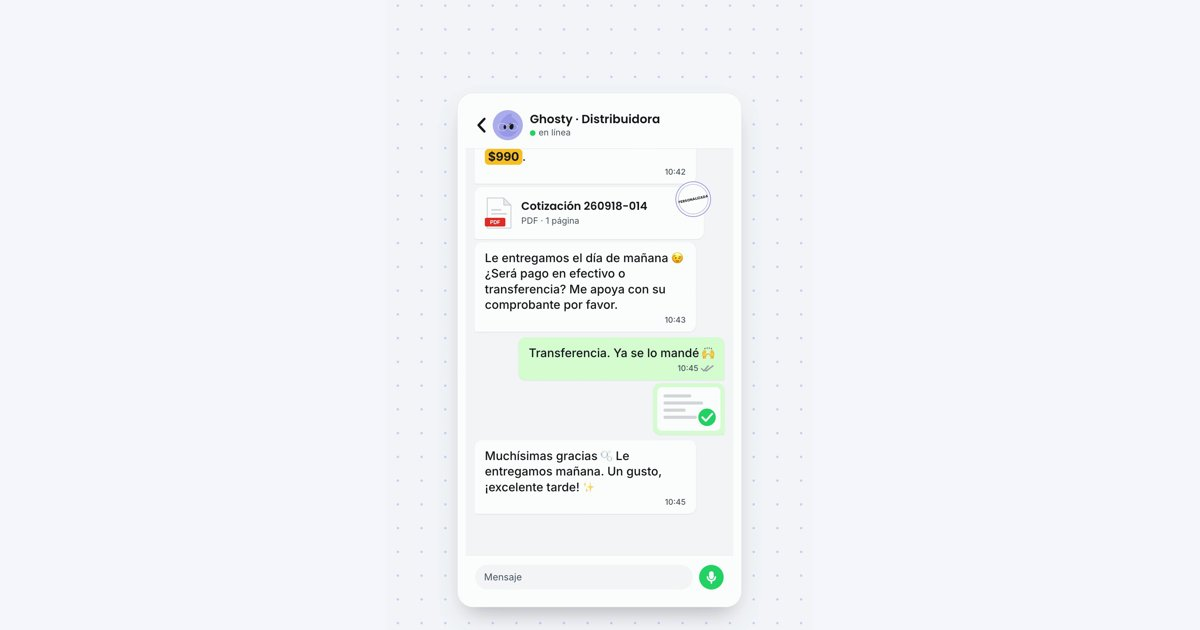
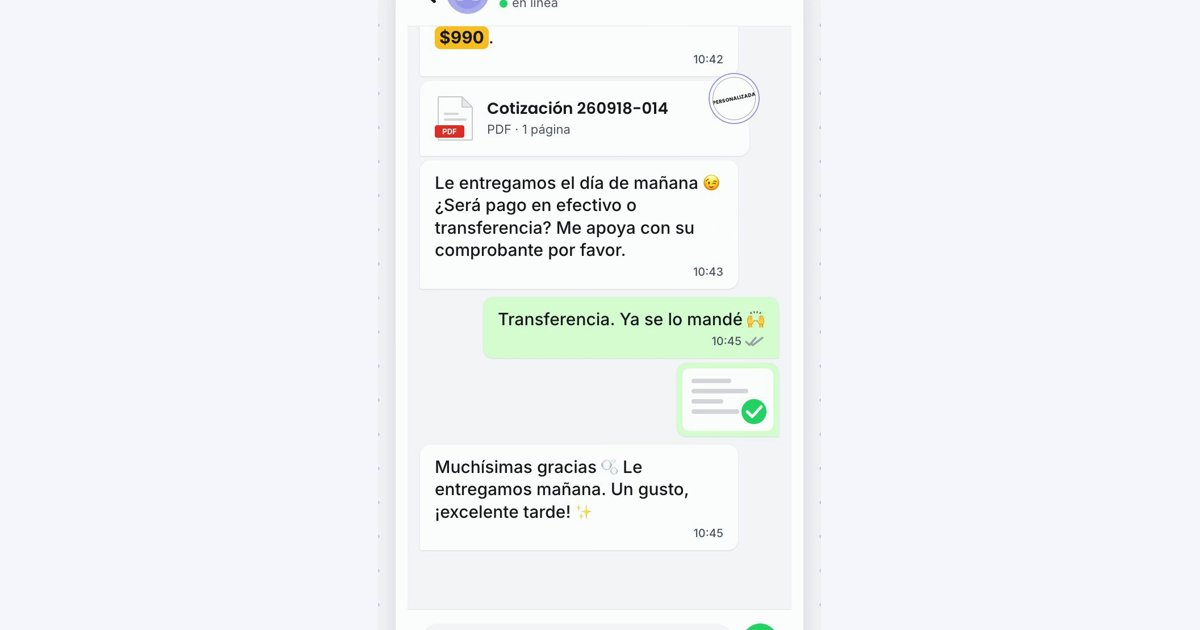
Blog: lista sin miniatura a una columna; portada con el chat más grande

diff --git a/posts/index.html b/posts/index.html
@@ -99,6 +99,7 @@ footer a{color:var(--muted);text-decoration:none;margin-left:18px}
 .post .yt{aspect-ratio:16/9;width:100%;border:0;border-radius:14px;margin:24px 0}
 .list{max-width:760px;margin:0 auto;padding:56px 20px}
 .list article{border-top:1px solid var(--line);padding:26px 0;display:grid;grid-template-columns:180px 1fr;gap:20px;align-items:start}
+.list article.no-thumb{grid-template-columns:1fr}
 .list .thumb{width:180px;aspect-ratio:1200/630;object-fit:cover;border-radius:10px;border:1px solid var(--line)}
 @media (max-width:640px){.list article{grid-template-columns:1fr}.list .thumb{width:100%}}
 .list h2{font-size:1.4rem;margin-bottom:6px}.list h2 a{text-decoration:none}.list h2 a:hover{color:var(--acc)}
@@ -112,13 +113,13 @@ footer a{color:var(--muted);text-decoration:none;margin-left:18px}
   <div class="navr"><button class="theme-toggle" id="themeToggle" aria-label="Cambiar tema"><svg class="sun" viewBox="0 0 24 24" fill="none" stroke="currentColor" stroke-width="2" stroke-linecap="round"><circle cx="12" cy="12" r="4"/><path d="M12 2v2M12 20v2M4.9 4.9l1.4 1.4M17.7 17.7l1.4 1.4M2 12h2M20 12h2M4.9 19.1l1.4-1.4M17.7 6.3l1.4-1.4"/></svg><svg class="moon" viewBox="0 0 24 24" fill="none" stroke="currentColor" stroke-width="2" stroke-linecap="round"><path d="M21 12.8A9 9 0 1 1 11.2 3a7 7 0 0 0 9.8 9.8z"/></svg></button>
   <a class="btn ghost" href="https://wa.me/527712412825?text=Vengo%20de%20hectorbliss.com" target="_blank" rel="noopener">WhatsApp</a></div>
 </div></nav>
-<main class="list"><span class="eyebrow">Blog</span><h1 style="font-size:2.4rem;margin-bottom:8px">Lo que he aprendido construyendo con IA</h1><p class="lead">Seis piezas que siguen valiendo. Lo demás está en <a href="https://blog.hectorbliss.com" style="color:var(--acc)">blog.hectorbliss.com</a>.</p><article><a href="/posts/un-ano-construyendo-agentes-que-trabajan-solos/"><img class="thumb" src="/blog-img/agentes/portada.jpg" alt="" loading="lazy"></a><div><h2><a href="/posts/un-ano-construyendo-agentes-que-trabajan-solos/">Un año construyendo agentes que trabajan solos</a></h2><div class="meta">18 de septiembre de 2026</div><p>Recuento, por si estás decidiendo si meter IA en tu operación. El caso que más me enseñó no es un demo Es Sofi, la vendedora de una distribuidora de químic…</p></div></article>
-<article><div><h2><a href="/posts/TikTok_Libera_Tus_Datos_Pero_Solo_Si_Vives_en_Europa/">TikTok Libera Tus Datos... Pero Solo Si Vives en Europa</a></h2><div class="meta">7 de septiembre de 2025</div><p>Lo que le pasa a un usuario de TikTok le pasa a cualquier negocio con su CRM, su tienda en línea o su sistema de facturación: los datos son tuyos sólo si p…</p></div></article>
-<article><div><h2><a href="/posts/El_Fascinante_Ecosistema_de_LimeSurvey_y_Sistemas_Open_Sourc/">El Fascinante Ecosistema de LimeSurvey y Sistemas Open Source Auto-Instalables con API</a></h2><div class="meta">3 de septiembre de 2025</div><p>Si tu negocio depende de encuestas, analytics o automatizaciones, la pregunta no es qué herramienta está de moda sino cuál no te amarra: que puedas instala…</p></div></article>
-<article><div><h2><a href="/posts/Frameworks_de_IA_para_TypeScript_Mas_Alla_de_Python/">Frameworks de IA para TypeScript: Más Allá de Python</a></h2><div class="meta">23 de agosto de 2025</div><p>Si vienes del mundo JavaScript/TypeScript, trabajar con AutoGen o LangChain puede sentirse como nadar contracorriente. Ambos están profundamente arraigados…</p></div></article>
-<article><div><h2><a href="/posts/AutoGen_vs_LangChain_Guia_Comparativa_para_Desarrolladores/">AutoGen vs LangChain: Guía Comparativa para Desarrolladores</a></h2><div class="meta">23 de agosto de 2025</div><p>El desarrollo con IA ha evolucionado rápidamente, y dos frameworks destacan en la construcción de aplicaciones inteligentes: AutoGen de Microsoft y LangCha…</p></div></article>
-<article><div><h2><a href="/posts/Arquitecturas_de_IA_con_Agentes_Patrones_y_Documentacion_Ofi/">Arquitecturas de IA con Agentes: Patrones y Documentación Oficial</a></h2><div class="meta">23 de agosto de 2025</div><p>Documentación Oficial Principal AWS Prescriptive Guidance Documento oficial: &quot;Agentic AI patterns and workflows on AWS&quot; Julio 2025 URL: docs.aws.amazon.com…</p></div></article>
-<article><div><h2><a href="/posts/adios-a-los-frameworks-web/">Adiós a los frameworks web</a></h2><div class="meta">1 de agosto de 2025</div><p>Por qué es hora de decir adiós a los frameworks tradicionales en la era de los LLMs La evolución del desarrollo web Durante más de dos décadas, los framewo…</p></div></article></main>
+<main class="list"><span class="eyebrow">Blog</span><h1 style="font-size:2.4rem;margin-bottom:8px">Lo que he aprendido construyendo con IA</h1><p class="lead">Siete piezas que siguen valiendo. Lo demás está en <a href="https://blog.hectorbliss.com" style="color:var(--acc)">blog.hectorbliss.com</a>.</p><article class=""><a href="/posts/un-ano-construyendo-agentes-que-trabajan-solos/"><img class="thumb" src="/blog-img/agentes/portada.jpg" alt="" loading="lazy"></a><div><h2><a href="/posts/un-ano-construyendo-agentes-que-trabajan-solos/">Un año construyendo agentes que trabajan solos</a></h2><div class="meta">18 de septiembre de 2026</div><p>Recuento, por si estás decidiendo si meter IA en tu operación. El caso que más me enseñó no es un demo Es Sofi, la vendedora de una distribuidora de químic…</p></div></article>
+<article class="no-thumb"><div><h2><a href="/posts/TikTok_Libera_Tus_Datos_Pero_Solo_Si_Vives_en_Europa/">TikTok Libera Tus Datos... Pero Solo Si Vives en Europa</a></h2><div class="meta">7 de septiembre de 2025</div><p>Lo que le pasa a un usuario de TikTok le pasa a cualquier negocio con su CRM, su tienda en línea o su sistema de facturación: los datos son tuyos sólo si p…</p></div></article>
+<article class="no-thumb"><div><h2><a href="/posts/El_Fascinante_Ecosistema_de_LimeSurvey_y_Sistemas_Open_Sourc/">El Fascinante Ecosistema de LimeSurvey y Sistemas Open Source Auto-Instalables con API</a></h2><div class="meta">3 de septiembre de 2025</div><p>Si tu negocio depende de encuestas, analytics o automatizaciones, la pregunta no es qué herramienta está de moda sino cuál no te amarra: que puedas instala…</p></div></article>
+<article class="no-thumb"><div><h2><a href="/posts/Frameworks_de_IA_para_TypeScript_Mas_Alla_de_Python/">Frameworks de IA para TypeScript: Más Allá de Python</a></h2><div class="meta">23 de agosto de 2025</div><p>Si vienes del mundo JavaScript/TypeScript, trabajar con AutoGen o LangChain puede sentirse como nadar contracorriente. Ambos están profundamente arraigados…</p></div></article>
+<article class="no-thumb"><div><h2><a href="/posts/AutoGen_vs_LangChain_Guia_Comparativa_para_Desarrolladores/">AutoGen vs LangChain: Guía Comparativa para Desarrolladores</a></h2><div class="meta">23 de agosto de 2025</div><p>El desarrollo con IA ha evolucionado rápidamente, y dos frameworks destacan en la construcción de aplicaciones inteligentes: AutoGen de Microsoft y LangCha…</p></div></article>
+<article class="no-thumb"><div><h2><a href="/posts/Arquitecturas_de_IA_con_Agentes_Patrones_y_Documentacion_Ofi/">Arquitecturas de IA con Agentes: Patrones y Documentación Oficial</a></h2><div class="meta">23 de agosto de 2025</div><p>Documentación Oficial Principal AWS Prescriptive Guidance Documento oficial: &quot;Agentic AI patterns and workflows on AWS&quot; Julio 2025 URL: docs.aws.amazon.com…</p></div></article>
+<article class="no-thumb"><div><h2><a href="/posts/adios-a-los-frameworks-web/">Adiós a los frameworks web</a></h2><div class="meta">1 de agosto de 2025</div><p>Por qué es hora de decir adiós a los frameworks tradicionales en la era de los LLMs La evolución del desarrollo web Durante más de dos décadas, los framewo…</p></div></article></main>
 <footer><div class="wrap">
   <span>© 2026 Héctor (blissmo) Campos · con el equipo de <a href="https://fixter.org" target="_blank" rel="noopener" style="margin:0">fixter.org</a></span>
   <span><a href="/posts/">Blog</a><a href="https://wa.me/527712412825?text=Vengo%20de%20hectorbliss.com" target="_blank" rel="noopener">WhatsApp</a><a href="mailto:contacto@fixter.org">Correo</a></span>

diff --git a/posts/Arquitecturas_de_IA_con_Agentes_Patrones_y_Documentacion_Ofi/index.html b/posts/Arquitecturas_de_IA_con_Agentes_Patrones_y_Documentacion_Ofi/index.html
@@ -99,6 +99,7 @@ footer a{color:var(--muted);text-decoration:none;margin-left:18px}
 .post .yt{aspect-ratio:16/9;width:100%;border:0;border-radius:14px;margin:24px 0}
 .list{max-width:760px;margin:0 auto;padding:56px 20px}
 .list article{border-top:1px solid var(--line);padding:26px 0;display:grid;grid-template-columns:180px 1fr;gap:20px;align-items:start}
+.list article.no-thumb{grid-template-columns:1fr}
 .list .thumb{width:180px;aspect-ratio:1200/630;object-fit:cover;border-radius:10px;border:1px solid var(--line)}
 @media (max-width:640px){.list article{grid-template-columns:1fr}.list .thumb{width:100%}}
 .list h2{font-size:1.4rem;margin-bottom:6px}.list h2 a{text-decoration:none}.list h2 a:hover{color:var(--acc)}

diff --git a/posts/AutoGen_vs_LangChain_Guia_Comparativa_para_Desarrolladores/index.html b/posts/AutoGen_vs_LangChain_Guia_Comparativa_para_Desarrolladores/index.html
@@ -99,6 +99,7 @@ footer a{color:var(--muted);text-decoration:none;margin-left:18px}
 .post .yt{aspect-ratio:16/9;width:100%;border:0;border-radius:14px;margin:24px 0}
 .list{max-width:760px;margin:0 auto;padding:56px 20px}
 .list article{border-top:1px solid var(--line);padding:26px 0;display:grid;grid-template-columns:180px 1fr;gap:20px;align-items:start}
+.list article.no-thumb{grid-template-columns:1fr}
 .list .thumb{width:180px;aspect-ratio:1200/630;object-fit:cover;border-radius:10px;border:1px solid var(--line)}
 @media (max-width:640px){.list article{grid-template-columns:1fr}.list .thumb{width:100%}}
 .list h2{font-size:1.4rem;margin-bottom:6px}.list h2 a{text-decoration:none}.list h2 a:hover{color:var(--acc)}

diff --git a/posts/El_Fascinante_Ecosistema_de_LimeSurvey_y_Sistemas_Open_Sourc/index.html b/posts/El_Fascinante_Ecosistema_de_LimeSurvey_y_Sistemas_Open_Sourc/index.html
@@ -99,6 +99,7 @@ footer a{color:var(--muted);text-decoration:none;margin-left:18px}
 .post .yt{aspect-ratio:16/9;width:100%;border:0;border-radius:14px;margin:24px 0}
 .list{max-width:760px;margin:0 auto;padding:56px 20px}
 .list article{border-top:1px solid var(--line);padding:26px 0;display:grid;grid-template-columns:180px 1fr;gap:20px;align-items:start}
+.list article.no-thumb{grid-template-columns:1fr}
 .list .thumb{width:180px;aspect-ratio:1200/630;object-fit:cover;border-radius:10px;border:1px solid var(--line)}
 @media (max-width:640px){.list article{grid-template-columns:1fr}.list .thumb{width:100%}}
 .list h2{font-size:1.4rem;margin-bottom:6px}.list h2 a{text-decoration:none}.list h2 a:hover{color:var(--acc)}

diff --git a/posts/Frameworks_de_IA_para_TypeScript_Mas_Alla_de_Python/index.html b/posts/Frameworks_de_IA_para_TypeScript_Mas_Alla_de_Python/index.html
@@ -99,6 +99,7 @@ footer a{color:var(--muted);text-decoration:none;margin-left:18px}
 .post .yt{aspect-ratio:16/9;width:100%;border:0;border-radius:14px;margin:24px 0}
 .list{max-width:760px;margin:0 auto;padding:56px 20px}
 .list article{border-top:1px solid var(--line);padding:26px 0;display:grid;grid-template-columns:180px 1fr;gap:20px;align-items:start}
+.list article.no-thumb{grid-template-columns:1fr}
 .list .thumb{width:180px;aspect-ratio:1200/630;object-fit:cover;border-radius:10px;border:1px solid var(--line)}
 @media (max-width:640px){.list article{grid-template-columns:1fr}.list .thumb{width:100%}}
 .list h2{font-size:1.4rem;margin-bottom:6px}.list h2 a{text-decoration:none}.list h2 a:hover{color:var(--acc)}

diff --git a/posts/TikTok_Libera_Tus_Datos_Pero_Solo_Si_Vives_en_Europa/index.html b/posts/TikTok_Libera_Tus_Datos_Pero_Solo_Si_Vives_en_Europa/index.html
@@ -99,6 +99,7 @@ footer a{color:var(--muted);text-decoration:none;margin-left:18px}
 .post .yt{aspect-ratio:16/9;width:100%;border:0;border-radius:14px;margin:24px 0}
 .list{max-width:760px;margin:0 auto;padding:56px 20px}
 .list article{border-top:1px solid var(--line);padding:26px 0;display:grid;grid-template-columns:180px 1fr;gap:20px;align-items:start}
+.list article.no-thumb{grid-template-columns:1fr}
 .list .thumb{width:180px;aspect-ratio:1200/630;object-fit:cover;border-radius:10px;border:1px solid var(--line)}
 @media (max-width:640px){.list article{grid-template-columns:1fr}.list .thumb{width:100%}}
 .list h2{font-size:1.4rem;margin-bottom:6px}.list h2 a{text-decoration:none}.list h2 a:hover{color:var(--acc)}

diff --git a/posts/adios-a-los-frameworks-web/index.html b/posts/adios-a-los-frameworks-web/index.html
@@ -99,6 +99,7 @@ footer a{color:var(--muted);text-decoration:none;margin-left:18px}
 .post .yt{aspect-ratio:16/9;width:100%;border:0;border-radius:14px;margin:24px 0}
 .list{max-width:760px;margin:0 auto;padding:56px 20px}
 .list article{border-top:1px solid var(--line);padding:26px 0;display:grid;grid-template-columns:180px 1fr;gap:20px;align-items:start}
+.list article.no-thumb{grid-template-columns:1fr}
 .list .thumb{width:180px;aspect-ratio:1200/630;object-fit:cover;border-radius:10px;border:1px solid var(--line)}
 @media (max-width:640px){.list article{grid-template-columns:1fr}.list .thumb{width:100%}}
 .list h2{font-size:1.4rem;margin-bottom:6px}.list h2 a{text-decoration:none}.list h2 a:hover{color:var(--acc)}

diff --git a/posts/un-ano-construyendo-agentes-que-trabajan-solos/index.html b/posts/un-ano-construyendo-agentes-que-trabajan-solos/index.html
@@ -99,6 +99,7 @@ footer a{color:var(--muted);text-decoration:none;margin-left:18px}
 .post .yt{aspect-ratio:16/9;width:100%;border:0;border-radius:14px;margin:24px 0}
 .list{max-width:760px;margin:0 auto;padding:56px 20px}
 .list article{border-top:1px solid var(--line);padding:26px 0;display:grid;grid-template-columns:180px 1fr;gap:20px;align-items:start}
+.list article.no-thumb{grid-template-columns:1fr}
 .list .thumb{width:180px;aspect-ratio:1200/630;object-fit:cover;border-radius:10px;border:1px solid var(--line)}
 @media (max-width:640px){.list article{grid-template-columns:1fr}.list .thumb{width:100%}}
 .list h2{font-size:1.4rem;margin-bottom:6px}.list h2 a{text-decoration:none}.list h2 a:hover{color:var(--acc)}
